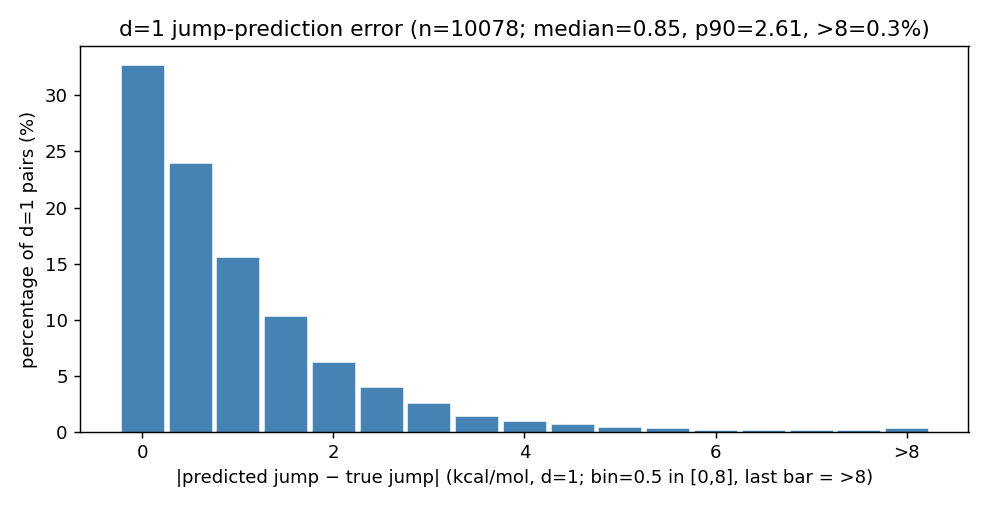
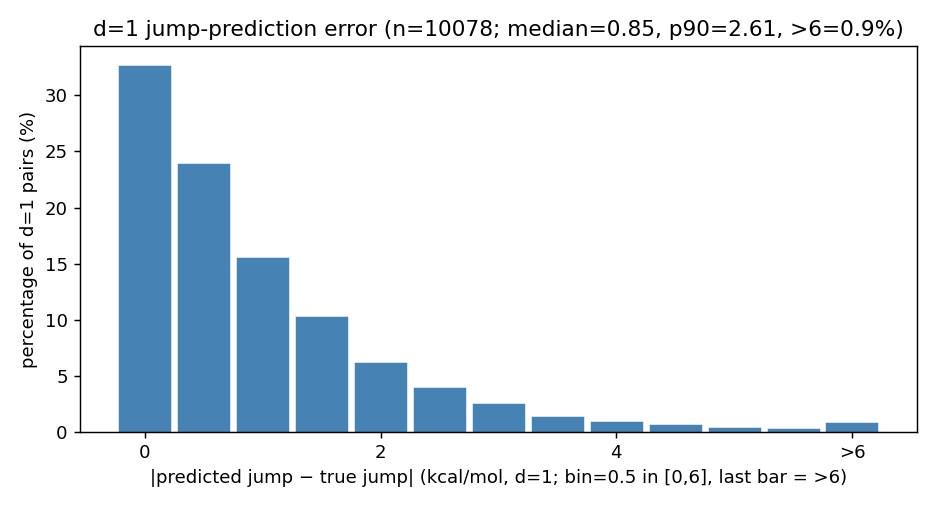
mutation-cliff §4.2: both d=1 figures bins -> [0,6) step 0.5 + >6 (>6 hist 0.9%, sign-flip 81% n=89)

diff --git a/reproduce/mutation_cliff_viz.py b/reproduce/mutation_cliff_viz.py
@@ -229,17 +229,17 @@ print(ext[["PDB","site","d","ddG_A","ddG_B","true_jump","pred_jump","diff_percen
 d1e=P[P.d==1].copy(); d1e["jerr"]=(d1e.pred_jump-d1e.true_jump).abs()
 print(f"\n=== d=1 |pred_jump−true_jump| 分布: n={len(d1e)} range[{d1e.jerr.min():.2f},{d1e.jerr.max():.2f}] "
       f"mean={d1e.jerr.mean():.2f} median={d1e.jerr.median():.2f} p90={d1e.jerr.quantile(.9):.2f} p99={d1e.jerr.quantile(.99):.2f} ===")
-# 分桶:[0,8) step=0.5(16 桶)+ 一个 >8 桶;y 轴为占比(%)
-hedges=[round(0.5*i,1) for i in range(17)]+[1e9]
+# 分桶:[0,6) step=0.5(12 桶)+ 一个 >6 桶;y 轴为占比(%)
+hedges=[round(0.5*i,1) for i in range(13)]+[1e9]
 hcnt=np.histogram(d1e.jerr.values,bins=hedges)[0]
 hpct=100*hcnt/len(d1e)
 hxs=np.arange(len(hpct))
-fig,ax=plt.subplots(figsize=(7.6,3.9))
+fig,ax=plt.subplots(figsize=(7.2,3.9))
 ax.bar(hxs,hpct,width=0.9,color="steelblue",edgecolor="white",linewidth=0.3)
-ax.set_xticks([0,4,8,12,16]); ax.set_xticklabels(["0","2","4","6",">8"])
-ax.set_xlabel("|predicted jump − true jump| (kcal/mol, d=1; bin=0.5 in [0,8], last bar = >8)")
+ax.set_xticks([0,4,8,12]); ax.set_xticklabels(["0","2","4",">6"])
+ax.set_xlabel("|predicted jump − true jump| (kcal/mol, d=1; bin=0.5 in [0,6], last bar = >6)")
 ax.set_ylabel("percentage of d=1 pairs (%)")
-ax.set_title(f"d=1 jump-prediction error (n={len(d1e)}; median={d1e.jerr.median():.2f}, p90={d1e.jerr.quantile(.9):.2f}, >8={100*(d1e.jerr>8).mean():.1f}%)")
+ax.set_title(f"d=1 jump-prediction error (n={len(d1e)}; median={d1e.jerr.median():.2f}, p90={d1e.jerr.quantile(.9):.2f}, >6={100*(d1e.jerr>6).mean():.1f}%)")
 fig.tight_layout(); fig.savefig(os.path.join(OUT,"d1_jumperr_hist.png")); plt.close(fig)
 
 # 同一分桶({0~4 by 0.1}∪{>4},按 |pred−true| 误差):每桶内 真值/预测跳变 符号相反的占比
@@ -252,8 +252,8 @@ for i in range(len(flip)):
     if fn[i]: print(f"  {hedges[i]:.1f}{'+' if i==len(flip)-1 else f'–{hedges[i+1]:.1f}'}: n={fn[i]} flip={flip[i]:.0f}%")
 fig,ax=plt.subplots(figsize=(8.6,3.9))
 ax.bar(hxs,flip,width=0.9,color="indianred",edgecolor="white",linewidth=0.3)
-ax.set_xticks([0,4,8,12,16]); ax.set_xticklabels(["0","2","4","6",">8"])
-ax.set_xlabel("|predicted jump − true jump| bin (kcal/mol, d=1; 0.5 in [0,8], last bar = >8)")
+ax.set_xticks([0,4,8,12]); ax.set_xticklabels(["0","2","4",">6"])
+ax.set_xlabel("|predicted jump − true jump| bin (kcal/mol, d=1; 0.5 in [0,6], last bar = >6)")
 ax.set_ylabel("% sign-opposite within bin"); ax.set_ylim(0,100)
 ax.set_title(f"d=1: fraction of sign-flipped pairs vs jump-error magnitude (n={len(d1e)})")
 fig.tight_layout(); fig.savefig(os.path.join(OUT,"d1_signflip_by_err.png")); plt.close(fig)

diff --git a/reproduce/RESEARCH_MOTIVATION_mutation_cliff.md b/reproduce/RESEARCH_MOTIVATION_mutation_cliff.md
@@ -139,12 +139,12 @@
 **d=1 全体的预测跳变误差分布**: 在所有 d=1 对(n=10078)上,`|预测跳变 − 真值跳变|` 的范围是 **[0.00, 14.04] kcal/mol**,
 mean 1.19 / median 0.85 / p90 2.61 / p99 5.83;**32.7% 的对 <0.5(预测准),但 17.3% >2、3.3% >4(严重失配)**。
 分布呈**长右尾**——多数 d=1 对预测尚可,但拖着一条粗重的"严重失配"尾巴(即上面"不正常组"那类 cliff)。
-(下图: 误差按 [0,8) 间隔 0.5 分桶、>8 聚成最后一根柱;纵轴为占全部 d=1 对的百分比,故 >8 那根柱仅 0.3%。)
+(下图: 误差按 [0,6) 间隔 0.5 分桶、>6 聚成最后一根柱;纵轴为占全部 d=1 对的百分比,故 >6 那根柱仅 0.9%。)
 
 <img src="mutation_analysis/d1_jumperr_hist.png" width="520">
 
 **同一分桶下,每个误差桶内"真值跳变 vs 预测跳变 符号相反"的占比**: 误差越大,符号判反的比例越高——
-从最小误差桶([0,0.5))的 **17%** 升到误差 ~1.5–3 的 **~45–47%**,**>8 误差桶达 97%**(n=29;高误差桶样本少、有抖动)。
+从最小误差桶([0,0.5))的 **17%** 升到误差 ~1.5–3 的 **~45–47%**,**>6 误差桶达 81%**(n=89;高误差桶样本少、有抖动)。
 说明**大误差不只是幅度压扁,相当一部分直接把方向也判反**(误差 >1.5 时已近半数符号相反)。
 
 <img src="mutation_analysis/d1_signflip_by_err.png" width="520">
